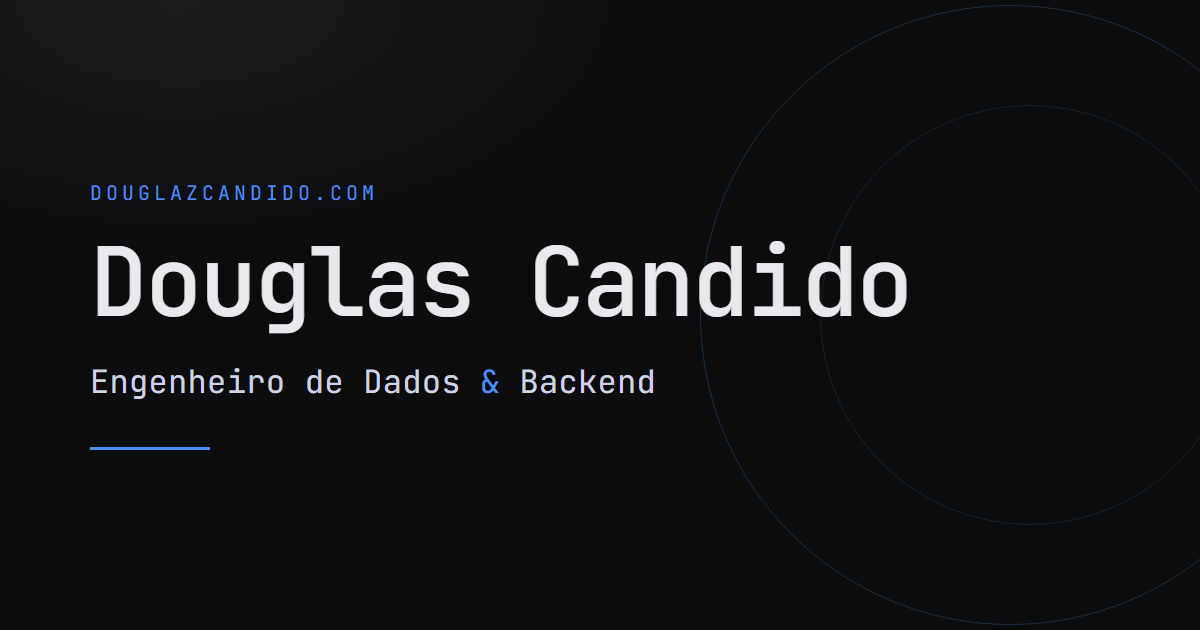
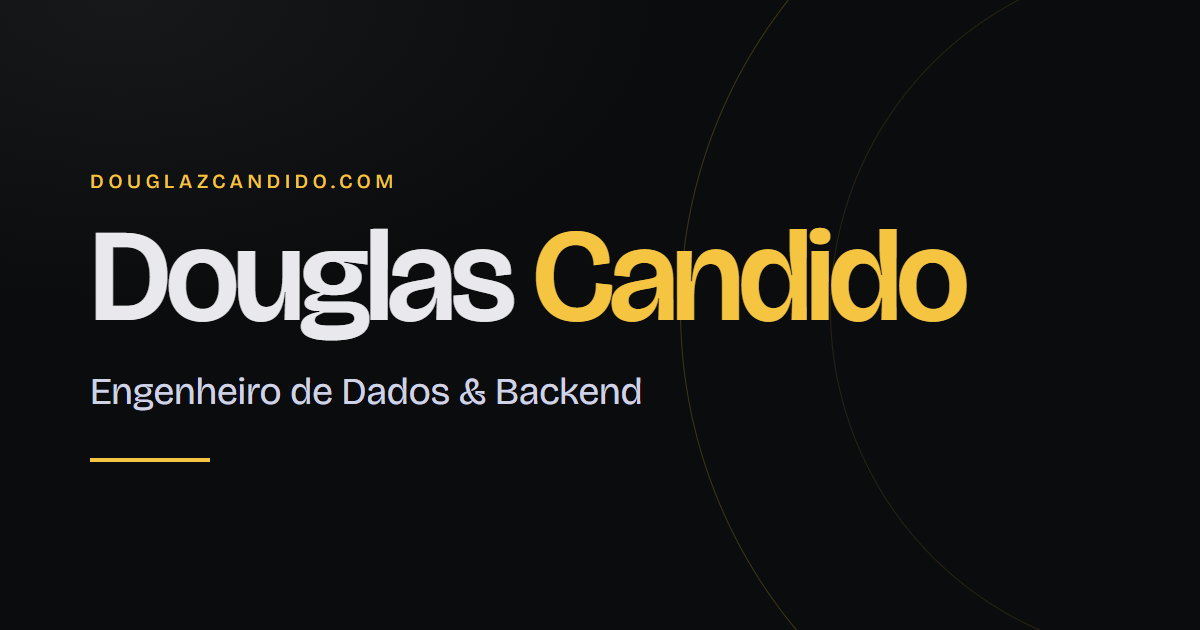
style: troca a cor de destaque de azul para amarelo

diff --git a/src/index.css b/src/index.css
@@ -8,8 +8,8 @@
   --color-bg: #000000;
   --color-surface: #0b0b0c;
   --color-text: #e9e9ed;
-  --color-accent: #4d8ff0;
-  --color-on-accent: #0b0c0d;
+  --color-accent: #f5c542;
+  --color-on-accent: #14110a;
 
   --color-neutral-100: #f3f5fe;
   --color-neutral-200: #e4e7f5;
@@ -32,8 +32,8 @@
   --color-bg: #d6d9de;
   --color-surface: #e0e2e7;
   --color-text: #14151a;
-  --color-accent: #2f6fe0;
-  --color-on-accent: #f6f8ff;
+  --color-accent: #a67c00;
+  --color-on-accent: #fffaf0;
 
   --color-neutral-100: #14151a;
   --color-neutral-200: #24252c;
